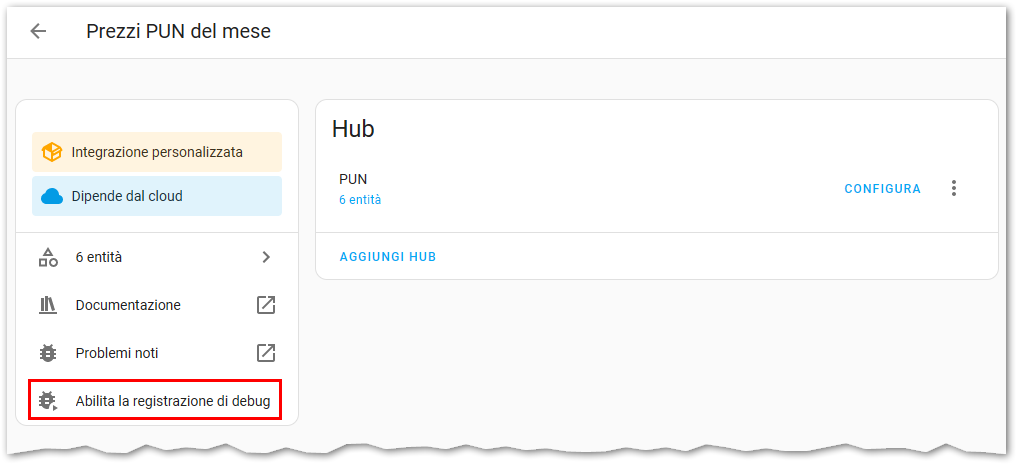
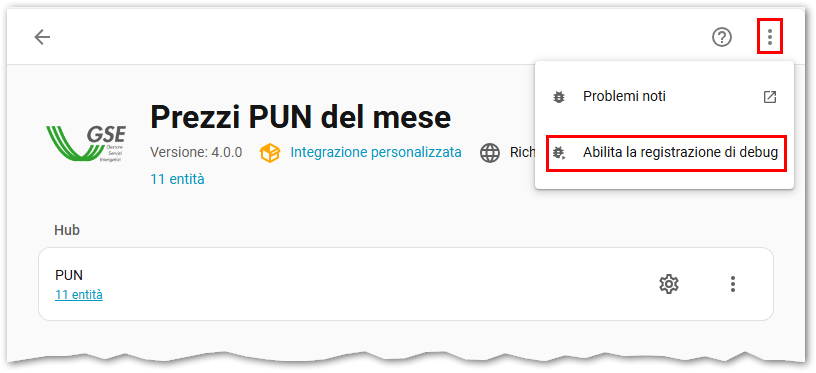
Aggiornamento istruzioni log di debug con nuove versioni di HA

diff --git a/README.md b/README.md
@@ -98,15 +98,17 @@ In maniera simile al prezzo zonale, anche il valore del PUN orario (nome sensore
 
 ### In caso di problemi
 
-È possibile abilitare la registrazione dei log tramite l'interfaccia grafica in **Impostazioni > Dispositivi e servizi > Prezzi PUN del mese** e cliccando sul pulsante **Abilita la registrazione di debug**.
+È possibile abilitare la registrazione dei log tramite l'interfaccia grafica in **Impostazioni > Dispositivi e servizi > Prezzi PUN del mese** e cliccando sul pulsante **⋮ > Abilita la registrazione di debug**.
 
 ![Abilitazione log di debug](screenshot_debug_1.png "Abilitazione log di debug")
 
-Il tasto verrà modificato come nell'immagine qui sotto:
+Il tasto verrà modificato come nell'immagine qui sotto; dopo che si verifica il problema, premere su **Disabilita**.
 
-![Estrazione log di debug](screenshot_debug_2.png "Estrazione log di debug")
+![Disabilitazione log di debug](screenshot_debug_2.png "Disabilitazione log di debug")
 
-Dopo che si verifica il problema, premerlo nuovamente: in questo modo verrà scaricato un file di log con le informazioni da allegare alle [Issue](https://github.com/virtualdj/pun_sensor/issues).
+In questo modo verrà scaricato un file di log con le informazioni da allegare alle [Issue](https://github.com/virtualdj/pun_sensor/issues).
+
+![Download del file di log](screenshot_debug_3.png "Download del file di log")
 
 ## Note di sviluppo
 
